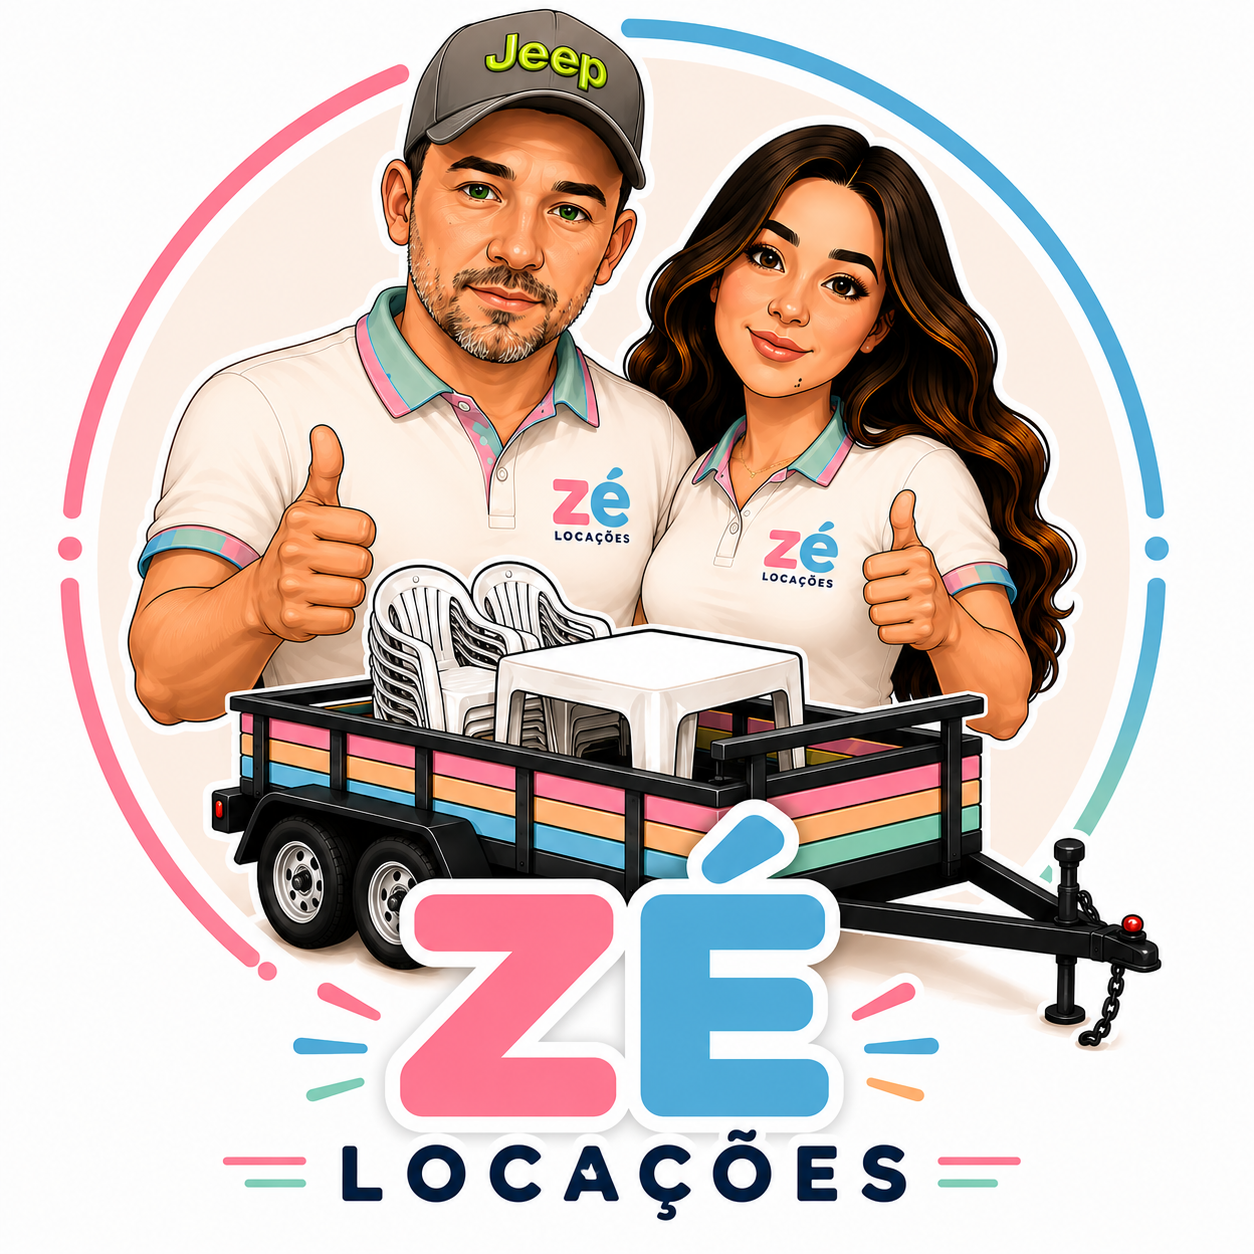
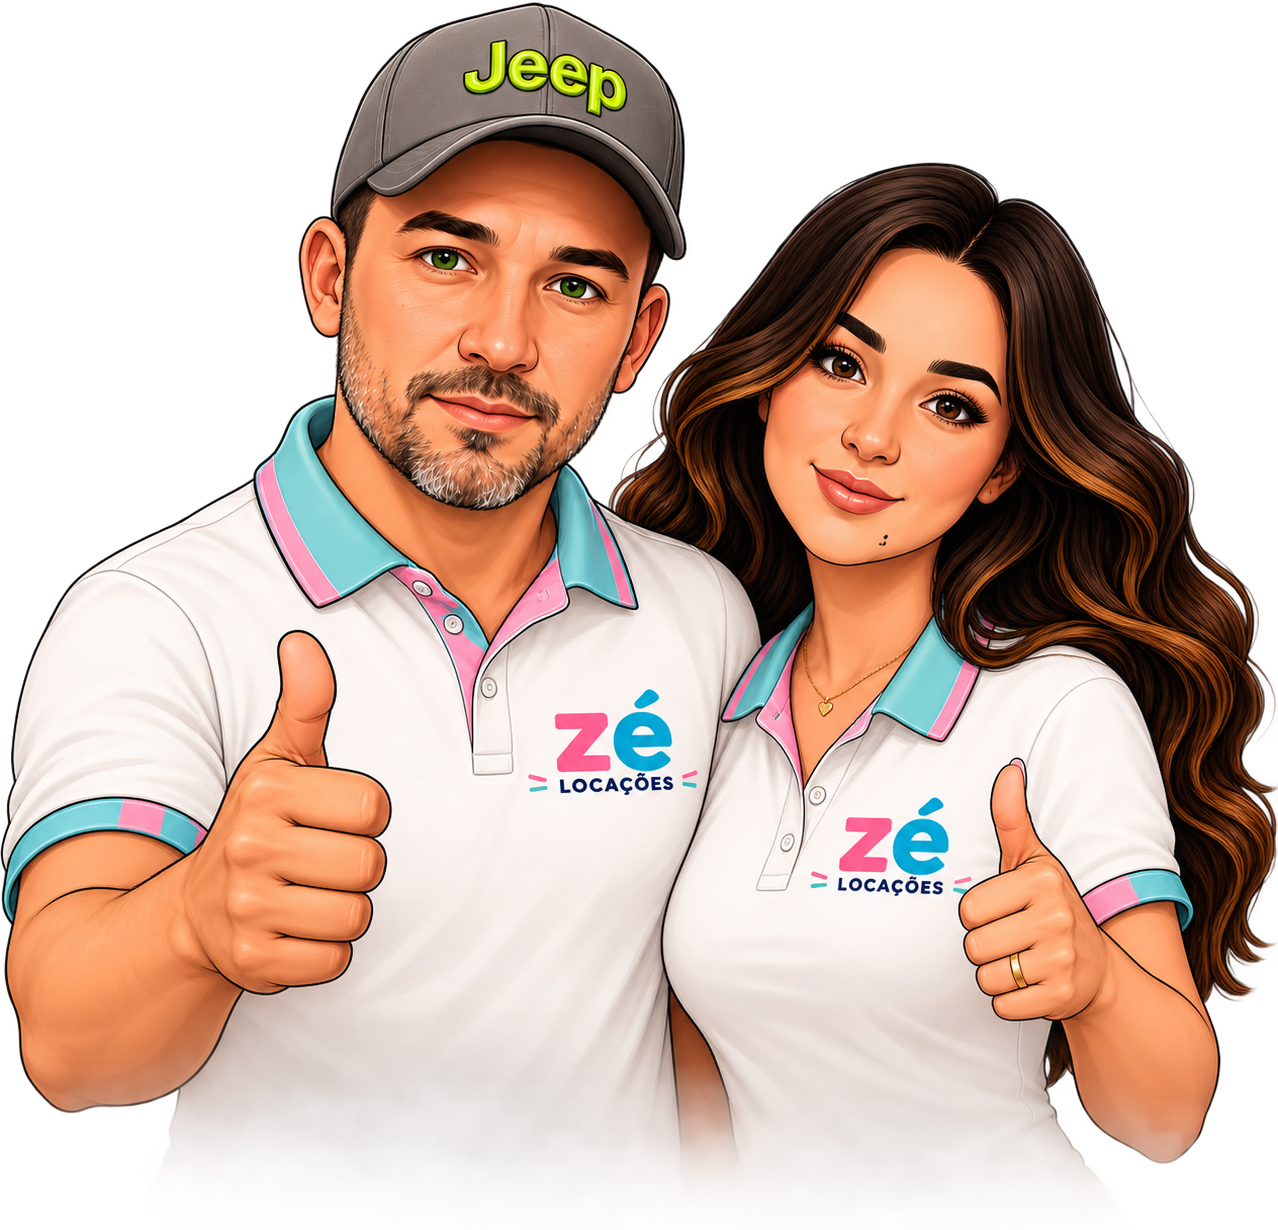
feat: aplica patterns de fundo e foto do casal sem fundo no hero
- casal.png: foto do casal com fundo transparente (slider hero)
- pattern1.png: pattern com logo para fundo da seção de preços
- pattern2.png: pattern com mesas/cadeiras para fundo do hero
- Slider hero com gradiente rosa/azul e casal em destaque

diff --git a/style.css b/style.css
@@ -70,6 +70,16 @@ body { font-family: 'Inter', sans-serif; color: var(--text); background: var(--b
 .hero {
   background: linear-gradient(155deg, #FDF0F5 0%, #F0F8FC 50%, #FBF6EE 100%);
   padding: 80px 0 70px;
+  position: relative;
+  overflow: hidden;
+}
+.hero::before {
+  content: '';
+  position: absolute;
+  inset: 0;
+  background: url('pattern2.png') center/cover no-repeat;
+  opacity: 0.07;
+  pointer-events: none;
 }
 .hero-inner {
   display: grid; grid-template-columns: 1fr 420px;
@@ -91,10 +101,10 @@ body { font-family: 'Inter', sans-serif; color: var(--text); background: var(--b
 .hero-slider {
   position: relative;
   width: 100%; max-width: 460px;
-  border-radius: 20px;
+  border-radius: 24px;
   overflow: hidden;
-  box-shadow: 0 16px 48px rgba(0,0,0,0.12);
-  background: #f5f0f8;
+  box-shadow: 0 20px 60px rgba(244,140,176,0.25);
+  background: linear-gradient(160deg, #FDE8F2 0%, #DDF1F6 100%);
   aspect-ratio: 1 / 1;
 }
 .slider-track {
@@ -108,7 +118,8 @@ body { font-family: 'Inter', sans-serif; color: var(--text); background: var(--b
 }
 .slide img {
   width: 100%; height: 100%;
-  object-fit: cover; object-position: center top;
+  object-fit: contain; object-position: center bottom;
+  padding: 10px;
 }
 
 .slider-arrow {
@@ -174,7 +185,18 @@ body { font-family: 'Inter', sans-serif; color: var(--text); background: var(--b
 
 /* ── SEÇÕES ── */
 .section { padding: 90px 0; }
-.bg-soft { background: var(--soft); }
+.bg-soft {
+  background-color: var(--soft);
+  position: relative;
+}
+.bg-soft::before {
+  content: '';
+  position: absolute;
+  inset: 0;
+  background: url('pattern1.png') center/600px repeat;
+  opacity: 0.04;
+  pointer-events: none;
+}
 
 .section-label {
   font-size: 0.78rem; font-weight: 700; letter-spacing: 0.08em;
